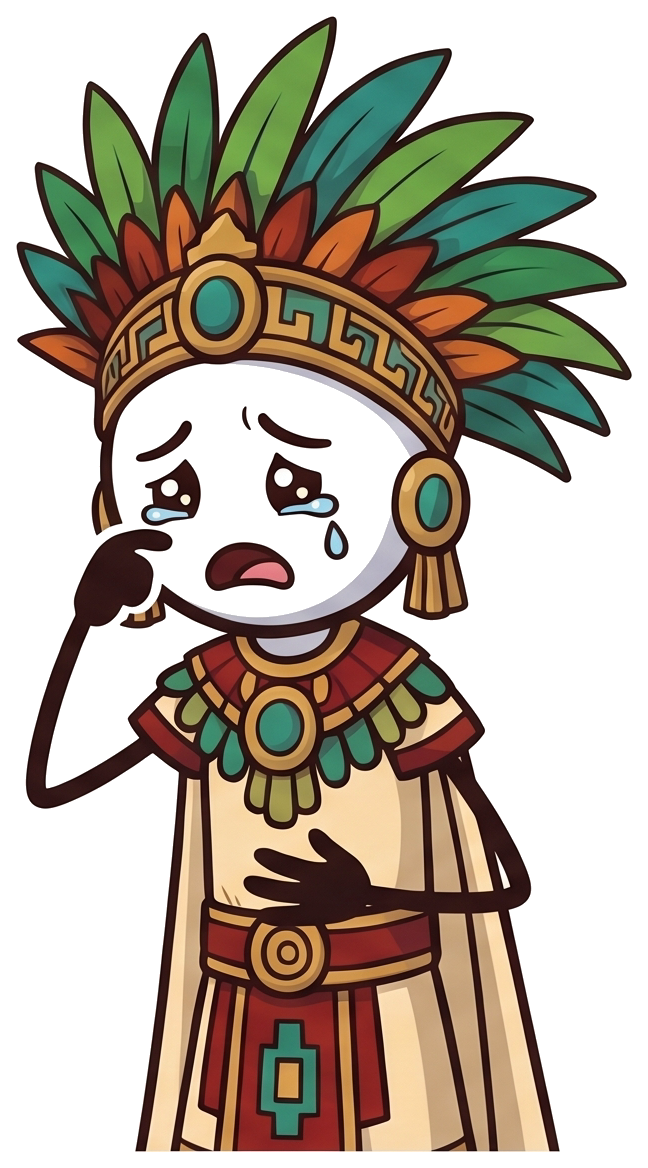
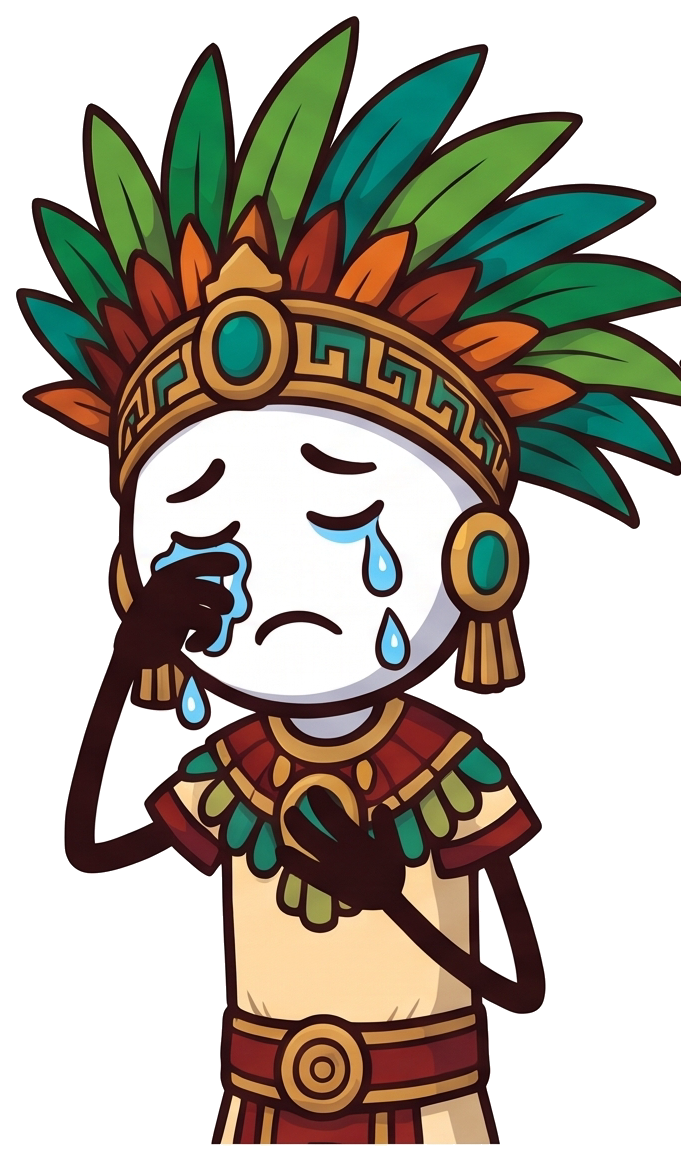
AZTIKA: sad redrawn (old cut-out had lost the face) + waist-up thinking, proud, whisper — all 46 poses pass the art check

diff --git a/src/kit/host-images.ts b/src/kit/host-images.ts
@@ -146,9 +146,13 @@ export const HOST_IMAGES = {
    761,
    1170
   ],
+  "proud": [
+   692,
+   1174
+  ],
   "sad": [
-   648,
-   1168
+   697,
+   1162
   ],
   "shocked-2": [
    648,
@@ -162,9 +166,17 @@ export const HOST_IMAGES = {
    646,
    1051
   ],
+  "thinking": [
+   676,
+   1125
+  ],
   "wave": [
    732,
    1225
+  ],
+  "whisper": [
+   700,
+   1165
   ],
   "wink-point": [
    766,

diff --git a/docs/KIT.md b/docs/KIT.md
@@ -854,8 +854,8 @@ gets a soft pop (built into ImageHost). Gallery `night` 0–2 s shows a 4-beat e
   automatically (flipped right of centre). Enter/exit with ImageHost moves (pop, rise, drop, peek, slide…).
 - **New poses (P3, 2026-11-10):** awe (back view, looking up — the ending) · higher (points up) · lower (points down) ·
   list (counts on fingers) · sure (arms crossed) · wow (hands on cheeks) · rest (sits — on a podium edge: x/y so his seat
-  is the podium top) · you (grins, points). 42 of 43 AZTIKA images pass the art check (--char); `sad` lost its face in
-  an old cut-out — being redrawn (until then do not use sad).
+  is the podium top) · you (grins, points). All 46 AZTIKA images pass the art check (--char); `sad` was
+  redrawn (its old cut-out had lost the face). New waist-up: thinking (hand on chin), proud (hands on hips), whisper.
 - **Reasons → poses (BEAT_POSE):** present · point · react · viewer · welcome · think · room · joy · shrug · doubt ·
   scared (or any image pose name).
 - **Rules:** a story reason for every move · moves ≥ 6 s apart · pose every ~3–6 s (≥ 1.5 s apart) · never frozen > 8 s ·

diff --git a/docs/kit/night.md b/docs/kit/night.md
@@ -45,8 +45,8 @@ gets a soft pop (built into ImageHost). Gallery `night` 0–2 s shows a 4-beat e
   automatically (flipped right of centre). Enter/exit with ImageHost moves (pop, rise, drop, peek, slide…).
 - **New poses (P3, 2026-11-10):** awe (back view, looking up — the ending) · higher (points up) · lower (points down) ·
   list (counts on fingers) · sure (arms crossed) · wow (hands on cheeks) · rest (sits — on a podium edge: x/y so his seat
-  is the podium top) · you (grins, points). 42 of 43 AZTIKA images pass the art check (--char); `sad` lost its face in
-  an old cut-out — being redrawn (until then do not use sad).
+  is the podium top) · you (grins, points). All 46 AZTIKA images pass the art check (--char); `sad` was
+  redrawn (its old cut-out had lost the face). New waist-up: thinking (hand on chin), proud (hands on hips), whisper.
 - **Reasons → poses (BEAT_POSE):** present · point · react · viewer · welcome · think · room · joy · shrug · doubt ·
   scared (or any image pose name).
 - **Rules:** a story reason for every move · moves ≥ 6 s apart · pose every ~3–6 s (≥ 1.5 s apart) · never frozen > 8 s ·

diff --git a/docs/ART-STYLE.md b/docs/ART-STYLE.md
@@ -85,6 +85,8 @@ images, in one row, evenly spaced with wide white space, not touching, same size
 full AZTIKA description + the 4 poses + "plain pure flat white background, no floor, no shadow, no frames, no text".
 Cut out WITHOUT --holes (his face is white): `node tools/cutout.mjs sheet.jpeg --out <dir> --names full-a,full-b,…`, check
 with art-check, copy into public/_hosts/aztika/, then `node tools/host-manifest.mjs`. Name full-body poses full-*.
+Waist-up poses: add `--head 0.62` (the face fills more of the figure). If two figures touch (feathers) the cut-out finds 3
+instead of 4: crop the sheet into 4 strips at the emptiest columns and cut each strip (2026-11-10).
 
 ## Night rules
 - Background removal + ART CHECK gate (tools/art-check.mjs, run by `art.mjs ingest`): look at review.jpg every time;
